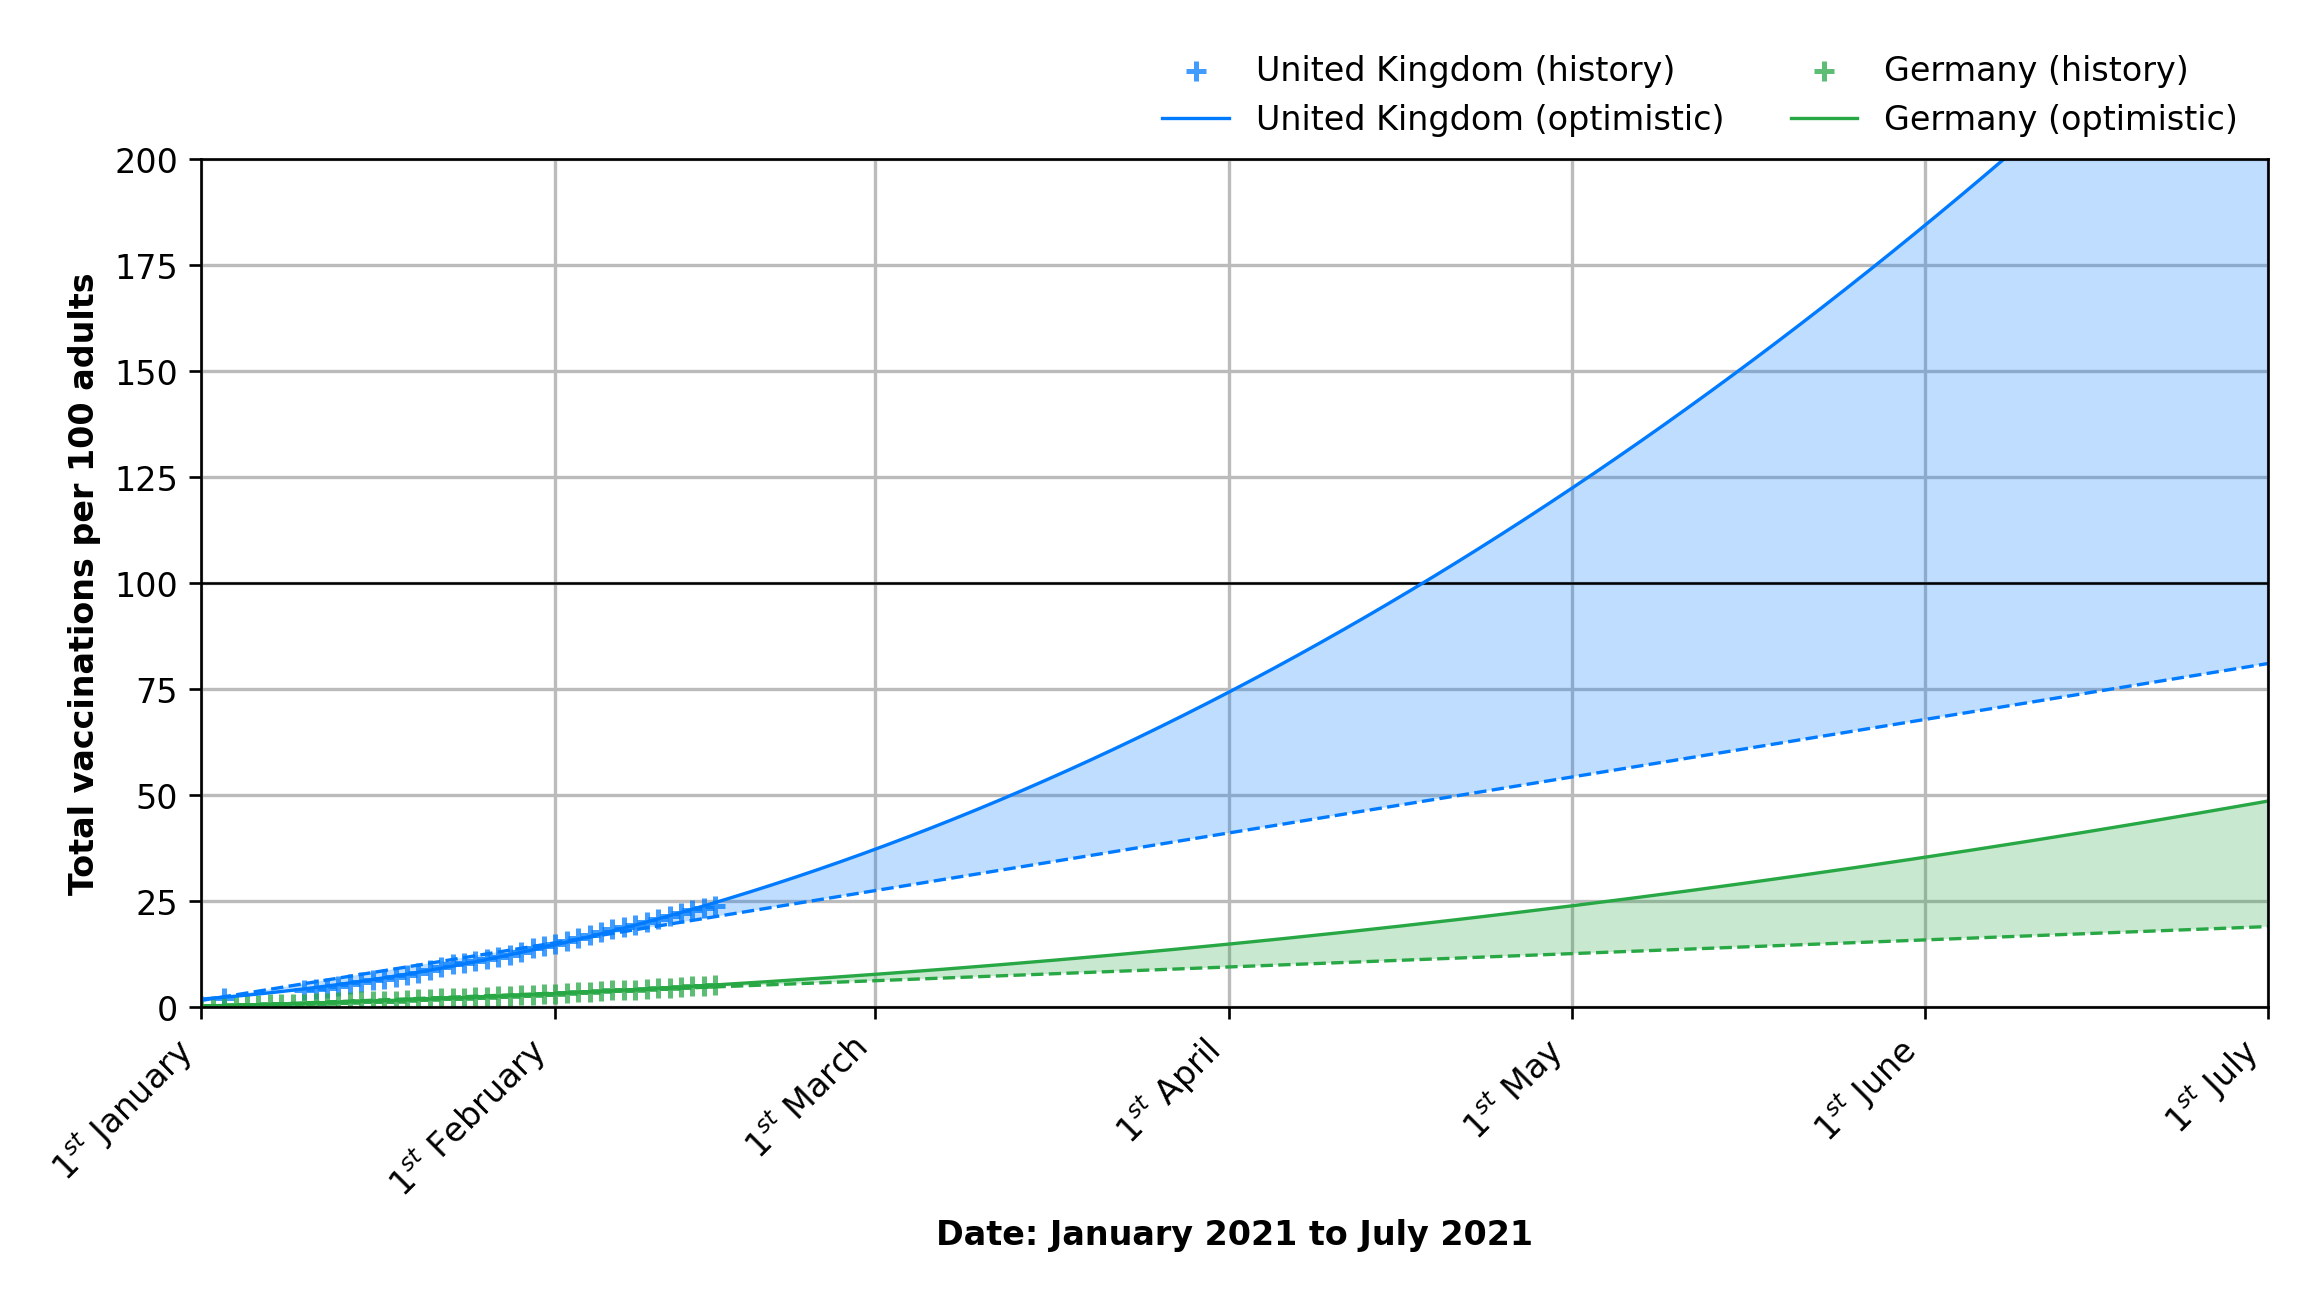
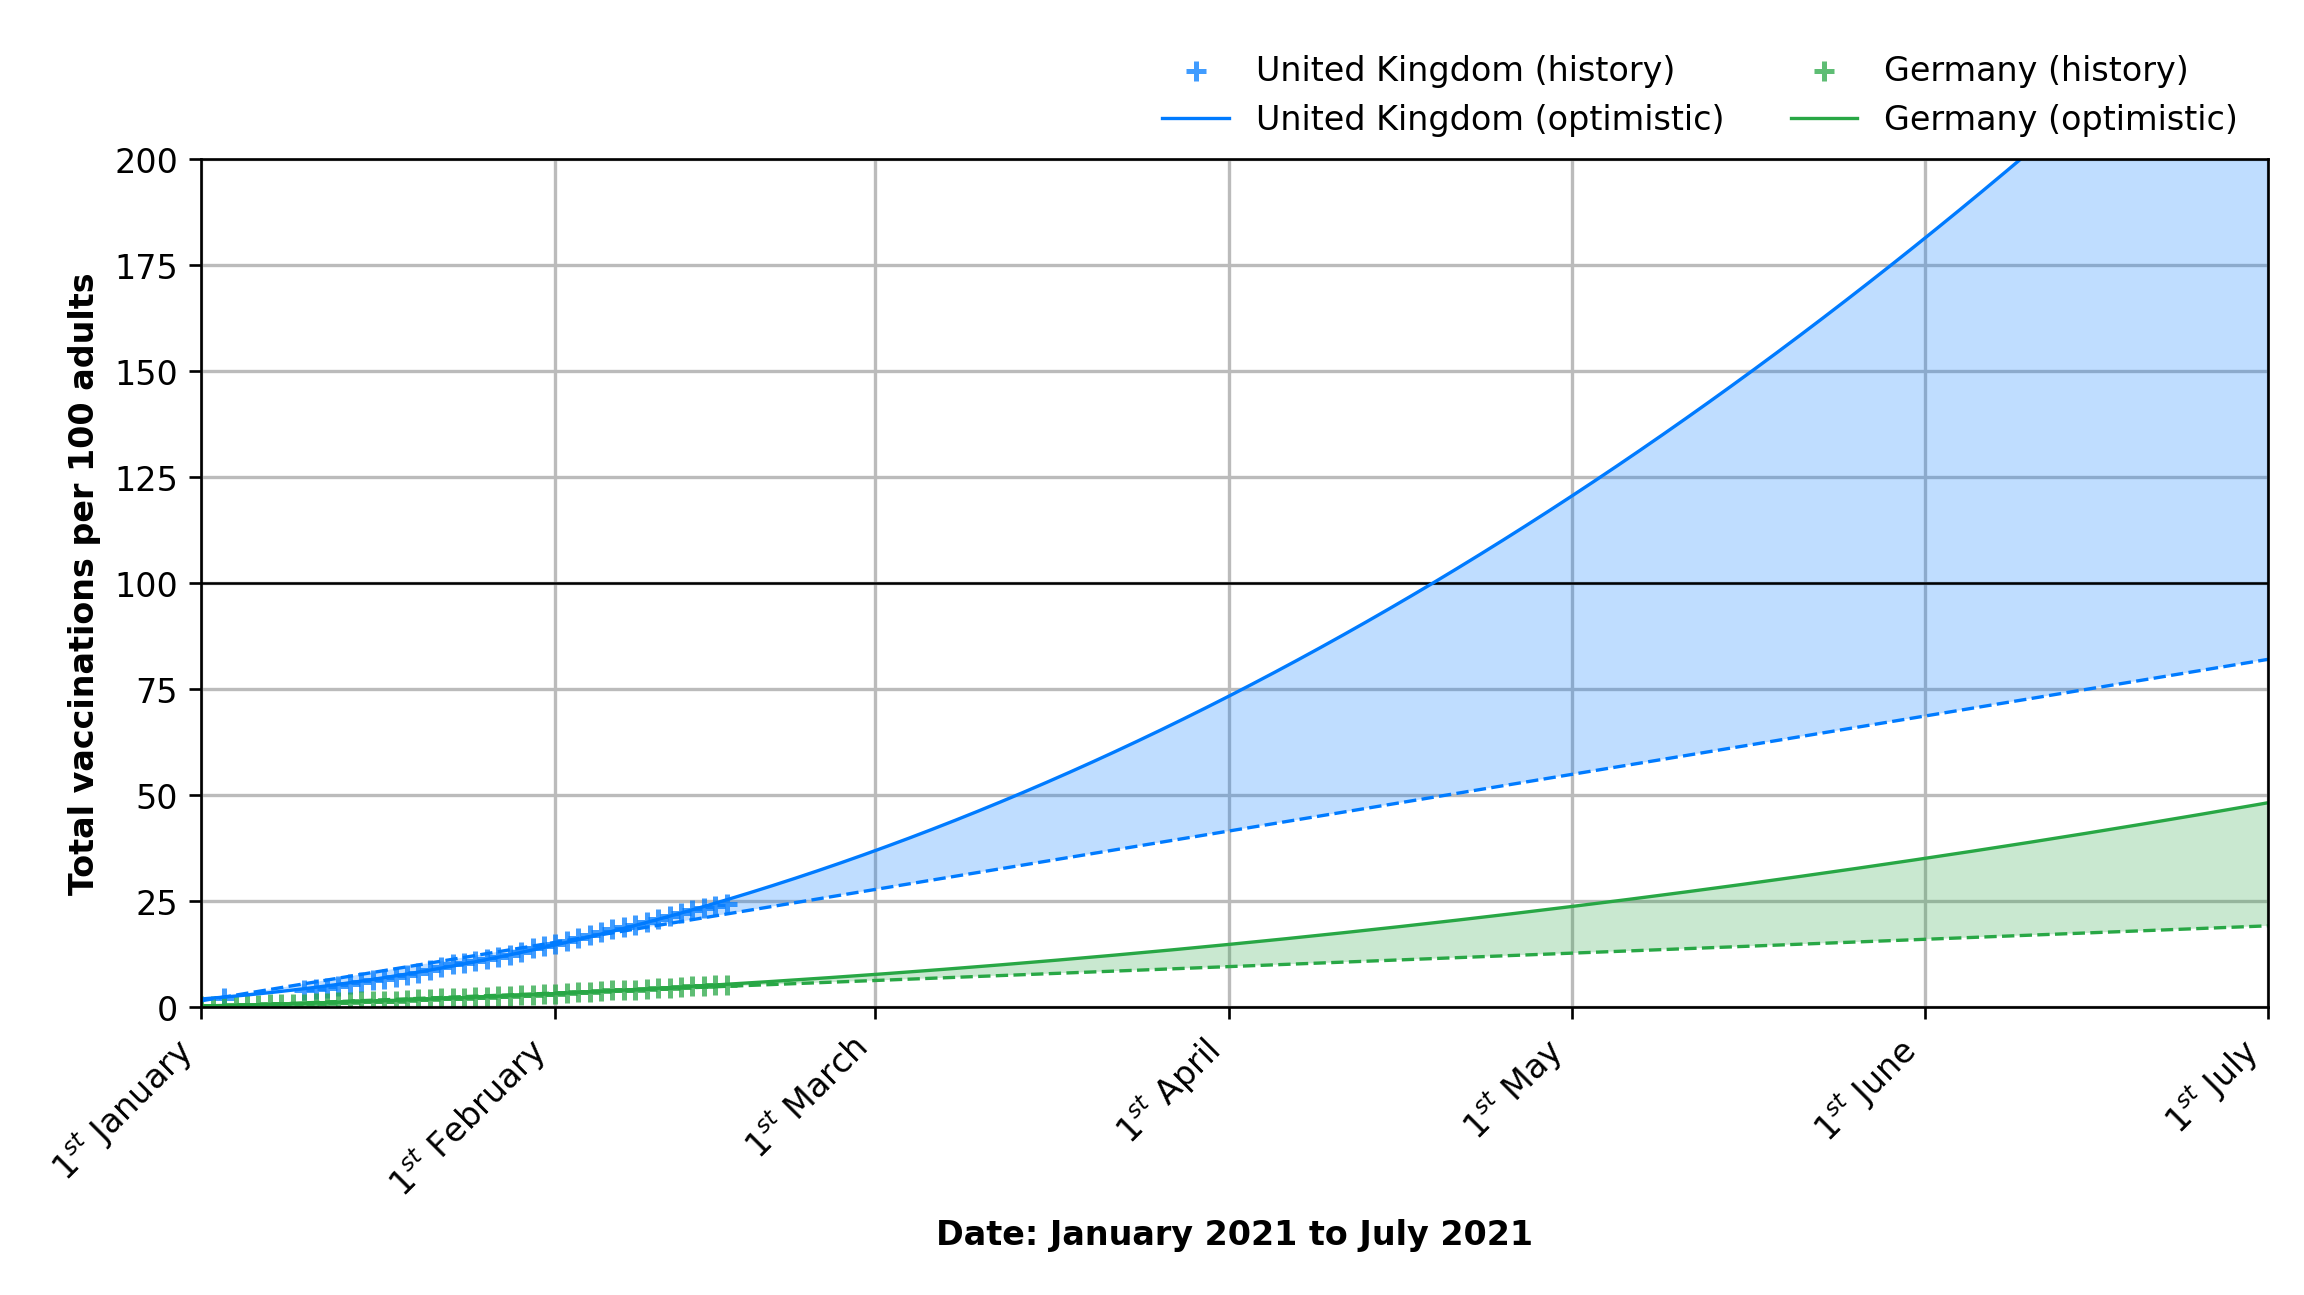
Deploying to gh-pages from @ lambdapioneer/vactrend@23e5ab94ff57564ed8c17baca80e6abce12d7b91 🚀

diff --git a/index.html b/index.html
@@ -24,7 +24,7 @@
                     trend.
                 </p>
                 <p class="text-muted">The data is sourced from the <a href="https://ourworldindata.org/">Our World in
-                        Data</a> project. Last update: 18 February 2021, 08:22 GMT.</p>
+                        Data</a> project. Last update: 18 February 2021, 10:22 GMT.</p>
             </div>
         </div>
         <a href="vactrend.png">
@@ -38,11 +38,11 @@
                 <div class="card">
                     <div class="card-header">🇬🇧 United Kingdom</div>
                     <div class="card-body">
-                        <h3 class="font-weight-bold" style="color: #007bff">23.75 <small>(+0.42/d)</small></h3>
+                        <h3 class="font-weight-bold" style="color: #007bff">24.3 <small>(+0.55/d)</small></h3>
                         <p class="mt-n2">Vaccinations per 100 adults</p>
-                        <h3 class=" font-weight-bold">18 April 2021</h3>
+                        <h3 class=" font-weight-bold">19 April 2021</h3>
                         <p class="mt-n2">Earliest day: 100 vacc. per 100 adults</p>
-                        <h3 class=" font-weight-bold">08 June 2021</h3>
+                        <h3 class=" font-weight-bold">10 June 2021</h3>
                         <p class="mt-n2">Earliest day: 200 vacc. per 100 adults</p>
                     </div>
                 </div>
@@ -52,11 +52,11 @@
                 <div class="card">
                     <div class="card-header">🇩🇪 Germany</div>
                     <div class="card-body">
-                        <h3 class="font-weight-bold" style="color: #28a745">5.11 <small>(+0.14/d)</small></h3>
+                        <h3 class="font-weight-bold" style="color: #28a745">5.28 <small>(+0.16/d)</small></h3>
                         <p class="mt-n2">Vaccinations per 100 adults</p>
-                        <h3 class=" font-weight-bold">28 September 2021</h3>
+                        <h3 class=" font-weight-bold">30 September 2021</h3>
                         <p class="mt-n2">Earliest day: 100 vacc. per 100 adults</p>
-                        <h3 class=" font-weight-bold">28 January 2022</h3>
+                        <h3 class=" font-weight-bold">30 January 2022</h3>
                         <p class="mt-n2">Earliest day: 200 vacc. per 100 adults</p>
                     </div>
                 </div>
